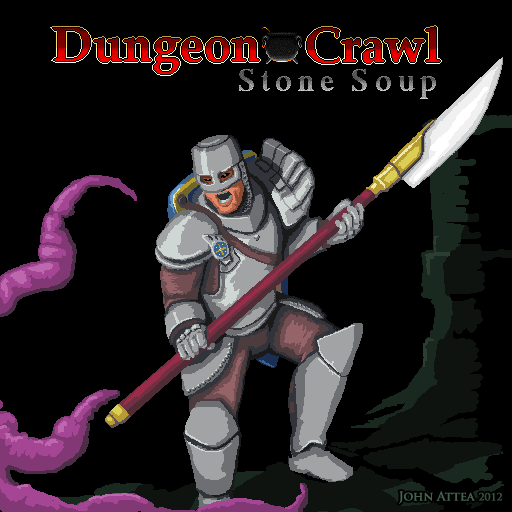
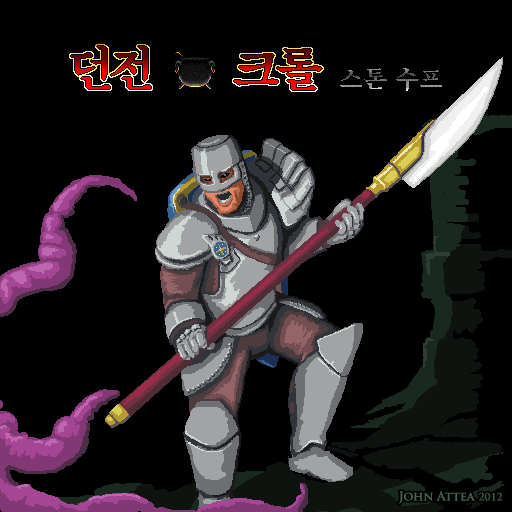
Logo업데이트, 마이너 수정

Changed region(s): [[0.0938, 0.0312, 0.875, 0.1875], [0.625, 0.0312, 0.6562, 0.0625]]

diff --git a/crawl-ref/source/directn.cc b/crawl-ref/source/directn.cc
@@ -3298,9 +3298,9 @@ string feature_description_at(bool allow_translate, const coord_def& where, bool
         if (door_desc_veto.empty() || door_desc_veto != "veto")
         {
             if (grid == DNGN_OPEN_DOOR)
-                desc += ((!allow_translate) ? "detected secret " : pgettext("featuredesc","detected secret "));
-            else if (grid == DNGN_RUNED_DOOR)
                 desc += ((!allow_translate) ? "open " : pgettext("featuredesc","open "));
+            else if (grid == DNGN_RUNED_DOOR)
+                desc += ((!allow_translate) ? "runed " : pgettext("featuredesc","runed "));
             else if (grid == DNGN_SEALED_DOOR)
                 desc += ((!allow_translate) ? "sealed " : pgettext("featuredesc","sealed "));
             else
